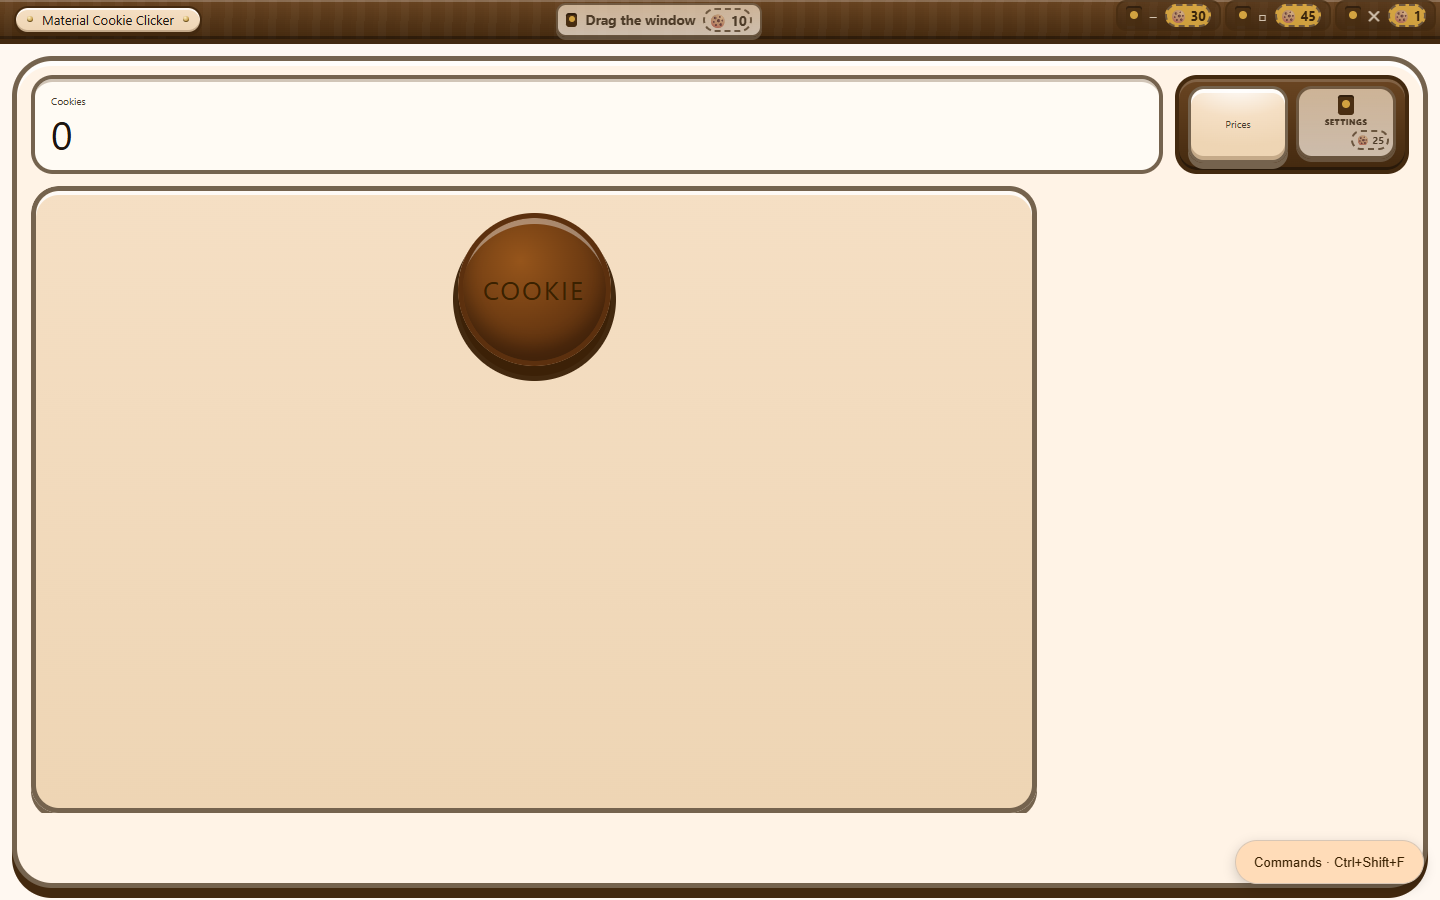
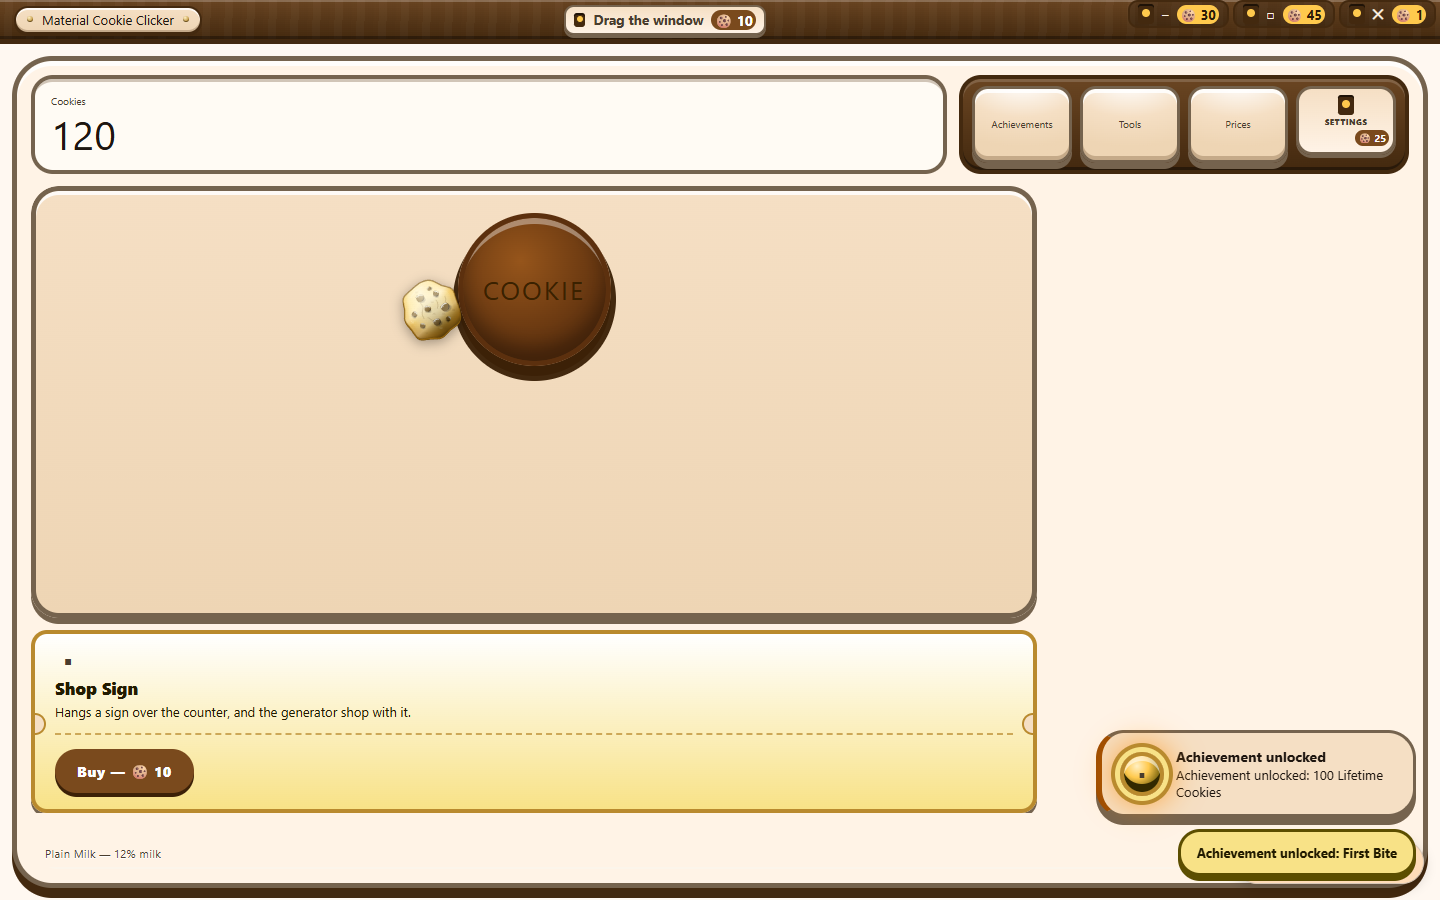
Give the graphics 'after' seed a balance, so its capture still shows the cabinet
The seed sat at exactly 0 cookies, which was incidental — it had spent everything on the
two graphics rungs. Once a zero balance began collapsing the shell back to a bare cookie
whatever is owned, that seed started rendering the cookie-only stage, and the capture
stopped showing the one thing it exists to show. The committed image would have been
evidence of a build that no longer behaves that way.

The state it depicts is "the graphics are bought", and a player who has just bought them
is not required to be broke. Recaptured from the built artifact.

嗰個 seed 啱啱好 0 粒曲奇，本身係巧合——買晒兩級畫面就用光。而家 0 粒會收返做淨得粒曲奇，
所以張圖影唔到佢本來要影嘅嘢。俾返少少餘額，重新影過。

diff --git a/scripts/capture-seed-graphics-progression.test.ts b/scripts/capture-seed-graphics-progression.test.ts
@@ -15,8 +15,15 @@ import type { GameState } from "../src/shared/game/types.js";
  *
  *   • before      — 0 cookies, nothing owned. The first rung is not even affordable.
  *   • affordable  — 50 cookies (exactly `look.palette`'s price), nothing owned yet.
- *   • after       — 0 cookies, `look.palette` and `look.cabinet` already owned, so the shell has
- *                   moved past the one-button `cookie-only` stage (see look-tiers.ts#lookStage).
+ *   • after       — `look.palette` and `look.cabinet` already owned, so the shell has moved past
+ *                   the one-button `cookie-only` stage (see look-tiers.ts#lookStage).
+ *
+ *                   It carries a LEFTOVER BALANCE on purpose. This seed used to sit at exactly 0,
+ *                   which was incidental -- it had spent everything on the two rungs. Once a zero
+ *                   balance began collapsing the shell back to a bare cookie whatever is owned,
+ *                   a 0-cookie seed rendered the cookie-only stage and the capture stopped showing
+ *                   the thing it exists to show. The state this depicts is "the graphics are
+ *                   bought", and a player who just bought them is not required to be broke.
  *
  * Run it on purpose:
  *   CAPTURE_DIR=<dir> npx vitest run scripts/capture-seed-graphics-progression.test.ts
@@ -37,7 +44,7 @@ mkdirSync(dir, { recursive: true });
 const cases: Array<[string, GameState]> = [
   ["before", stateFor(0, [])],
   ["affordable", stateFor(50, [])],
-  ["after", stateFor(0, ["look.palette", "look.cabinet"])],
+  ["after", stateFor(120, ["look.palette", "look.cabinet"])],
 ];
 
 for (const [name, state] of cases) {
